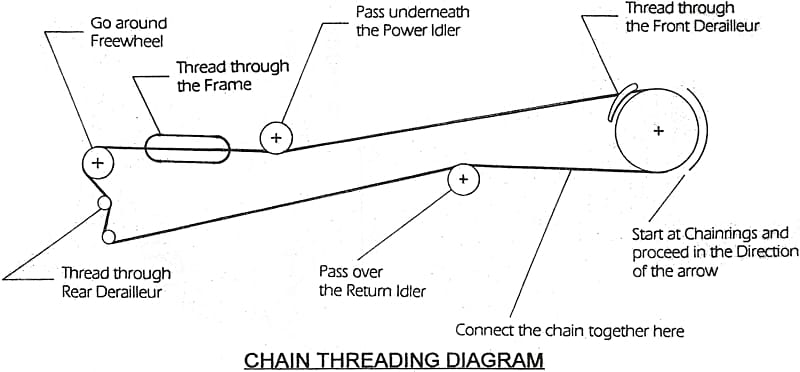
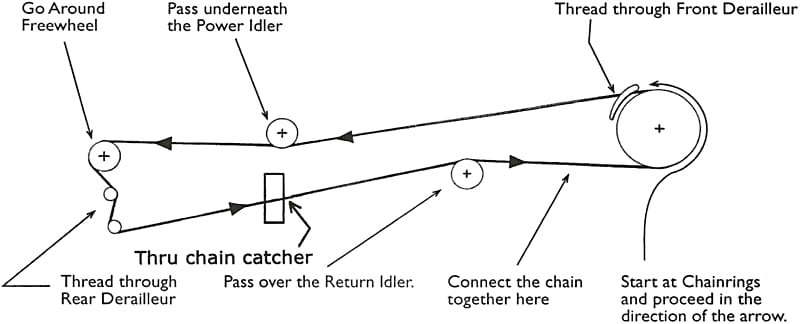
better image for chain routing

diff --git a/r84/manual-2016.html b/r84/manual-2016.html
@@ -171,7 +171,7 @@
 				<figcaption>
 					Figure 1-4
 				</figcaption>
-				<img src="/r84/manual/figure-1-4.jpg" width="800" height="372" alt="figure-1-4" class="img-thumbnail">
+				<img src="/r84/manual/figure-1-4.jpg" width="800" height="324" alt="figure-1-4" class="img-thumbnail">
 			</figure>
 			<h3 id="frame-kits">
 				1.2 FRAME KIT INFORMATION
